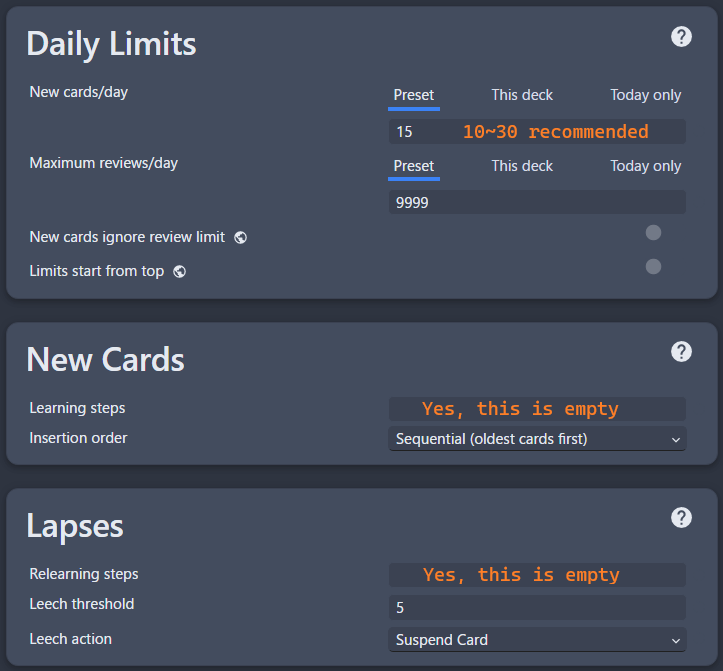
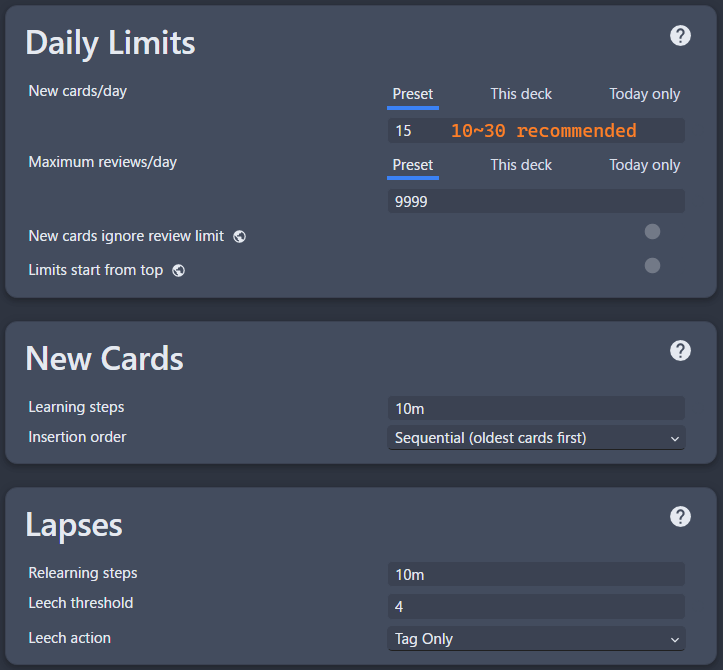
$updated info

diff --git a/docs/jp-lazy-guide/changelog.md b/docs/jp-lazy-guide/changelog.md
@@ -18,11 +18,8 @@ hide:
 - Anki [settings](setupAnki.md/#__tabbed_1_2) updated
 	- [Anki 24.11](https://apps.ankiweb.net/) is now available with `FSRS 5` update
 	- For existing users, all the changes are:
-		- `Tools` > `Preferences` > `Learn ahead limit` is set back to default `20 minutes`
-		- `Learning Steps` and `Relearning Steps` is now `Empty`
-		- `Review Sort Order: Descending retrievability`
 		- Yes, you need to `Optimize` again and `reschedule all cards`
-		- For `Ankidroid` users, please wait `2 weeks` or so later to get the `FSRS 5` update
+		- For `Ankidroid` users, please wait around `2 weeks` or so later to get the `FSRS 5` update
 
 ### September
 
